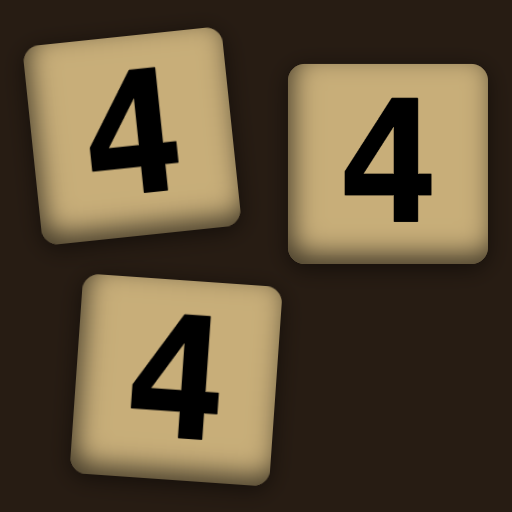
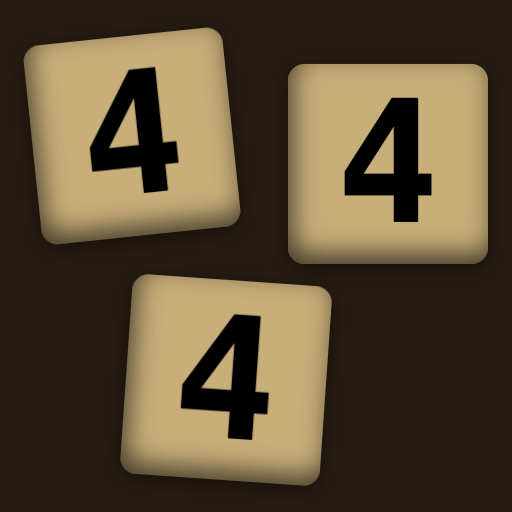
Bring the bottom 444dle tile back a quarter tile
-0.4 overshot. -0.15 sits between that and where it was, and puts the
mark's weight back near the middle: centre of mass 48.4% across, against
45.2% at -0.4 and 51.0% before it moved at all.

Changed region(s): [[0.125, 0.5312, 0.6562, 0.9688]]

diff --git a/scripts/icons/main.ts b/scripts/icons/main.ts
@@ -29,7 +29,7 @@ const ART: Record<string, Art> = {
         { char: "4", lie: -6, dx: -0.02 },
         { char: "4", lie: 0, dx: 0.06, dy: 0.14 },
       ],
-      [{ char: "4", lie: 4, dx: -0.4, dy: 0.02 }],
+      [{ char: "4", lie: 4, dx: -0.15, dy: 0.02 }],
     ],
   },
 };
